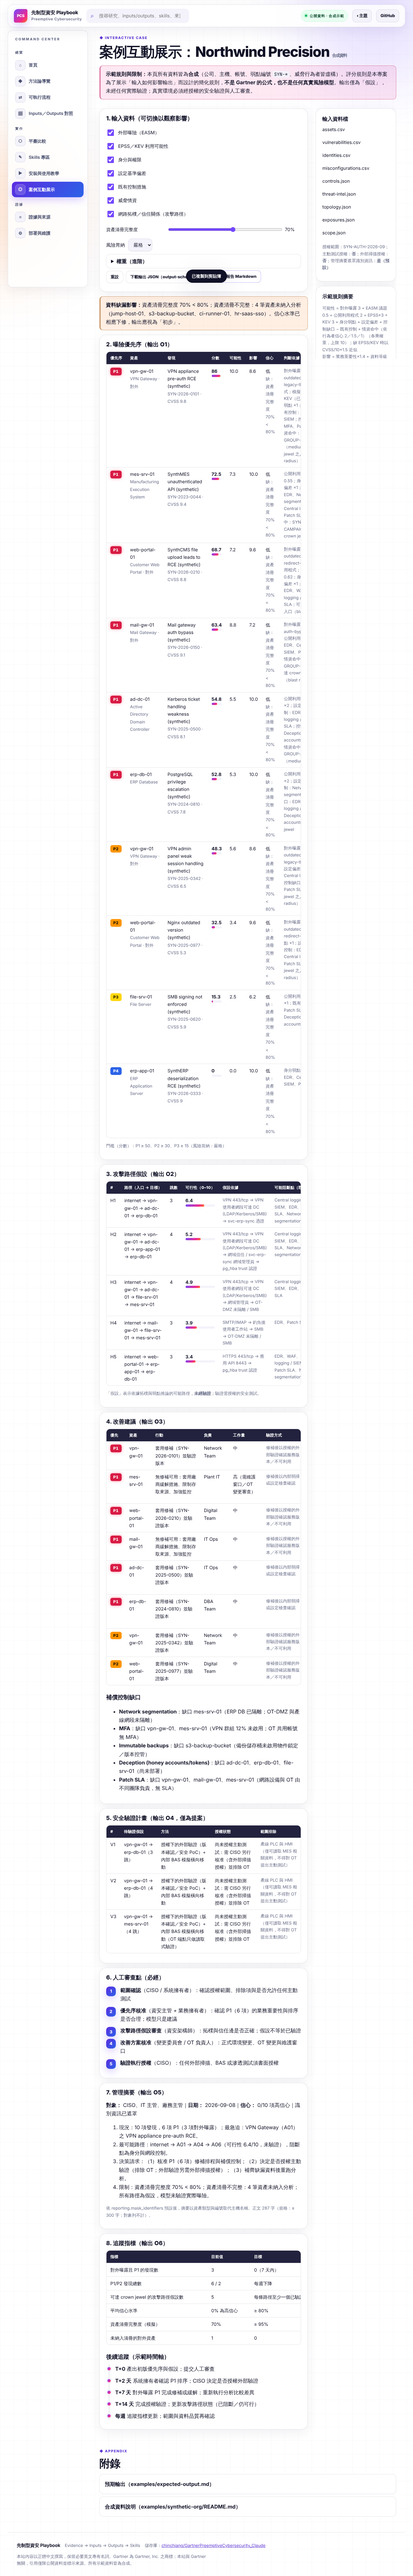
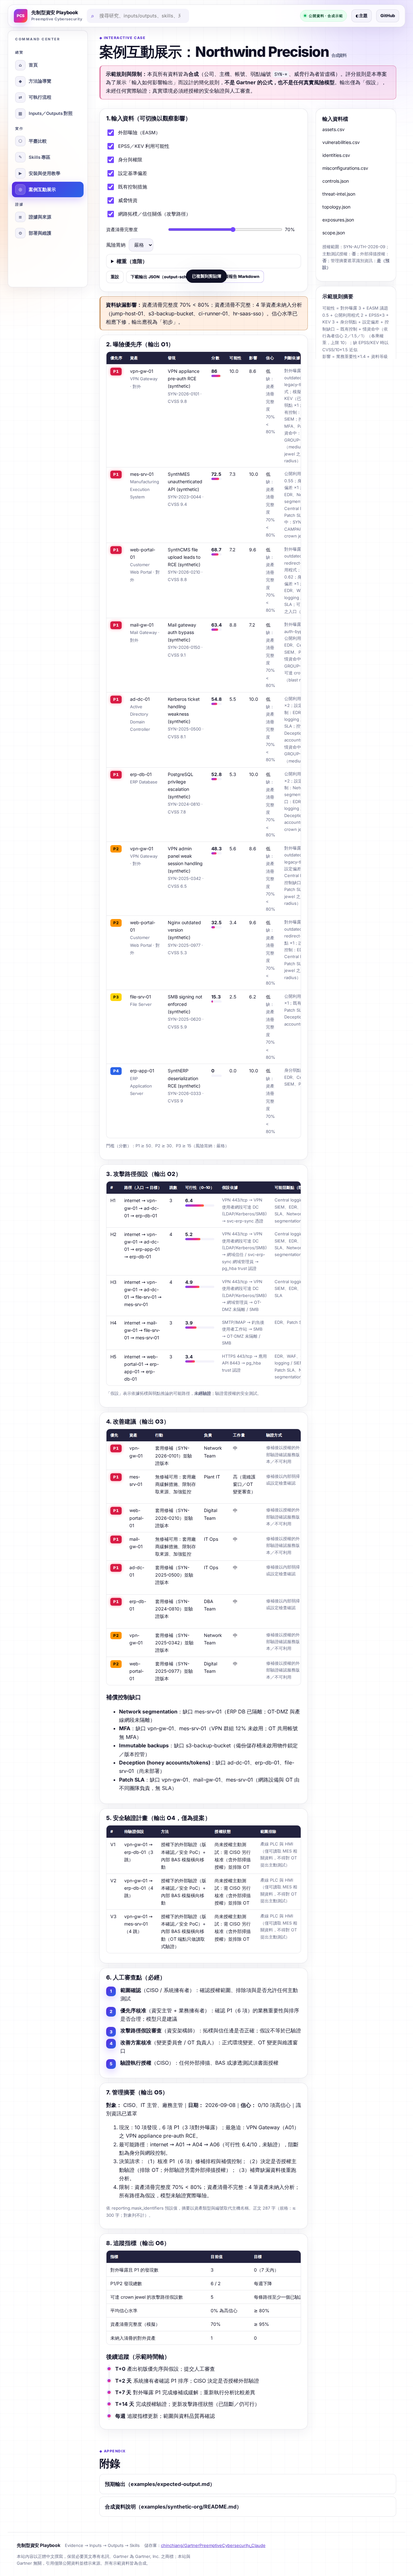
驗證報告與截圖更新為 CI run 39082413984 的產物（100/100）
- verify-report.md：完整模式 100/100（原本是 2026-10-16 的 106/106；#65 把 11 項驗收移到 npm test，這次加了 C 的靜態 1 項與 D 的瀏覽器 4 項）
- verify-screenshots/：12 張重新截圖，新增 home-last-updated.png（以固定時間填好 last-updated 的首頁，1280px）
- data/extra.js：重建（驗證報告嵌入網站）

diff --git a/data/extra.js b/data/extra.js
@@ -23,6 +23,6 @@ window.EXTRA_DOCS = {
  "readme": "# Gartner「Preemptive Cybersecurity（先制型資安）」研究與五平臺 Skills Playbook\n\n研究 Gartner 的 Preemptive Cybersecurity 方法論，拆解其必要輸入、處理流程與可能輸出；據此建立可在 **ChatGPT、Claude、Grok、GLM、DeepSeek** 上使用的 skills 或等效工作流程；並以合成資料示範。全部內容以正體中文撰寫，保留必要英文專有名詞，並以互動網站呈現。\n\n> **誠實聲明**：本專案明確區分「Gartner 明確陳述」「其他來源」「本專案推論」「待驗證」。凡標示為本專案推論的流程、分類、評分規則，**不是 Gartner 官方方法論**。研究環境無法直接開啟 gartner.com 與多數廠商網站，Gartner 網頁引文取自搜尋索引摘錄並交叉比對；唯一讀過全文的 Gartner 文件是使用者提供的《Emerging Tech Impact Radar: Preemptive Cybersecurity》授權轉載版。詳見網站「研究方法」章與「證據與來源」頁。\n\n## 網站\n\n- 網站網址（已由 GitHub Actions 部署，2026-09-13 確認可用）：`https://chinchiang.github.io/GartnerPreemptiveCybersecurity_Claude/`\n- 本機預覽：`npm run build && npx http-server -p 8080 .`，或直接開啟 `index.html`。建置與靜態驗證只用 Node 內建模組，不需要 `npm install`。\n\n網站包含：方法論導覽（8 章研究文件全文）、可執行流程（8 步驟互動）、Inputs／Outputs 對照（可篩選，含合成範例）、平臺比較、Skills 專區（一鍵複製／下載／ZIP）、安裝與使用教學（切換平臺）、案例互動展示（合成資料，可切換輸入與權重；輸出 JSON 符合 output-schema）、證據與來源（查證等級可篩選、原始證據檔、待驗證清單、連結檢查表）、部署與維護（附驗證報告與後端說明）。支援桌面與行動裝置、淺／深色主題、全站搜尋、基本無障礙。\n\n## 儲存庫結構\n\n```\nindex.html, assets/, data/        靜態網站（無框架、無外部相依；assets/fonts/ 自載 Inter／JetBrains Mono，OFL）\ndocs/research/                    研究文件 00–07（方法、定義、關聯、流程、輸入、輸出、案例、平臺）\ndocs/guides/                      五平臺安裝與使用教學 + 部署與維護\ndocs/evidence/                    英文證據檔（Gartner 與平臺查證原始紀錄）\nskills/shared/                    共用任務規格、核心提示詞、輸入／輸出 JSON Schema\nskills/{chatgpt,claude,grok,glm,deepseek}/   各平臺 skill 或等效檔案（SKILL.md、提示詞、API 腳本）\nexamples/synthetic-org/           合成資料（9 檔）；expected-output.md 預期輸出；demo-snapshot.txt 示範引擎黃金快照\nscripts/                          build-data.mjs（產生 data/ 與 downloads/）、verify.mjs（驗證）、run-demo.mjs（示範引擎；--json 輸出 output-schema 格式、--no-scope 模擬缺授權）、check-acceptance.mjs（驗收真實模型輸出）、build-worker.mjs（後端代理嵌入提示詞）\ndownloads/                        建置產生的 ZIP 下載包\nbackend/                          選用的模型 API 代理範例（預設不需要、無金鑰；部署前以 build-worker.mjs 產生 dist/）\n.github/workflows/                pages.yml（部署）、ci.yml（PR 驗證）、link-check.yml（來源連結檢查）、model-acceptance.yml（真實模型驗收，手動）、quarterly-review.yml（季度查證提醒）\n```\n\n## 快速使用 Skills\n\n| 平臺 | 最快路徑 |\n|---|---|\n| Claude | 把 `skills/claude/preemptive-exposure-analysis/` 放進 `.claude/skills/`，在 Claude Code 輸入 `/preemptive-exposure-analysis examples/synthetic-org` |\n| ChatGPT | Custom GPT 貼入 `skills/chatgpt/custom-gpt-instructions.md`；或 Codex 使用 `skills/chatgpt/preemptive-exposure-analysis/` |\n| Grok | `skills/grok/system-prompt.md` 貼入對話，或 `python3 skills/grok/api-workflow.py --dry-run` |\n| GLM | Claude Code + GLM 後端使用 `skills/glm/preemptive-exposure-analysis/`；或 `python3 skills/glm/api-workflow.py --dry-run` |\n| DeepSeek | `python3 skills/deepseek/api-workflow.py --dry-run`（版本無關）；或 `skills/deepseek/preemptive-exposure-analysis/` |\n\n所有 API 腳本都支援 `--dry-run`（不需 API 金鑰）。金鑰一律以環境變數提供，儲存庫不含任何金鑰或真實資料。\n\n## 驗證\n\n```bash\nnpm run build\nnpm run verify:static   # 資料、來源 ID、schema、示範引擎的行為檢查與快照、下載檔、機敏字串（驗收在 npm test）\nnpm run verify          # 加上 Playwright 瀏覽器檢查（導覽、搜尋、篩選、複製、下載、案例互動、行動裝置）；需先 npm ci\npython3 skills/claude/preemptive-exposure-analysis/scripts/validate_inputs.py examples/synthetic-org\n```\n\n上面兩個指令驗的是專案本身（免金鑰、可重現）。**真實模型輸出**的驗收另用 `scripts/check-acceptance.mjs` 與 `.github/workflows/model-acceptance.yml`（手動觸發），人工判讀的部分記錄在 `docs/evidence/model-acceptance-template.md`；細節見 `docs/guides/deployment.md` 第 4.3 節。\n\n實際檢查結果記錄於 `verify-report.md`。`data/` 與 `downloads/` 為建置產物但有進版控，CI 會檢查它們與來源一致；修改 `docs/` 或 `skills/` 後請務必重新 `npm run build` 再提交。\n\n## 安全邊界\n\n本專案的工作流程以**授權範圍內的防禦分析**為目的。語言模型只做資料整合、規則化推理、假設生成與文件撰寫；不執行掃描或測試、不驗證實際曝險、不保證防止攻擊。對外掃描、主動安全驗證與正式環境變更在流程中設有明確的授權旗標與人工審查步驟。\n\n## 授權與商標\n\n- 本專案內容（文件、程式碼、合成資料）採 MIT License（見 `LICENSE`）。\n- Gartner 為 Gartner, Inc. 之商標。本專案與 Gartner 無關；引用僅限公開資料與短句，並標示來源。依 Gartner 使用政策，不在儲存庫內收錄任何 Gartner 文件全文。\n",
  "syntheticReadme": "# 合成資料：Northwind Precision（虛構製造業公司）\n\n> **所有資料皆為合成（synthetic）**。公司、主機名稱、IP、帳號、弱點編號（`SYN-` 開頭）與威脅情資皆為示範用途而虛構，與任何真實組織、產品或 CVE 無關。請勿以本資料推論任何真實環境的安全狀態。\n\n本目錄提供一份完整、可直接餵給五個平臺 skill 的輸入資料集，同時也是網站「案例互動展示」使用的資料。\n\n| 檔案 | 對應輸入類別 | 必要性 | 說明 |\n|---|---|---|---|\n| `assets.csv` | 資產清冊 + 業務重要性 | 必要 | 12 筆資產，含類型、擁有者、業務重要性（1–5）、資料等級、是否對外曝露 |\n| `exposures.json` | 外部曝險（EASM 輸出） | 必要（可由資產清冊推估） | 對外服務、port、憑證與到期、指紋 |\n| `vulnerabilities.csv` | 弱點掃描結果 | 必要 | 合成弱點（`SYN-2026-xxxx`），含 CVSS、是否有公開利用程式、模擬 EPSS、模擬 KEV 旗標 |\n| `misconfigurations.csv` | 設定基準偏差 | 選用 | CIS/雲端設定檢查結果 |\n| `identities.csv` | 身分與權限 | 選用（建議） | 特權帳號、MFA 狀態、閒置狀態、服務帳號 |\n| `controls.json` | 既有控制措施 | 選用（建議） | EDR、WAF、網段隔離、備份、日誌覆蓋 |\n| `threat-intel.json` | 威脅情資 | 選用（建議） | 產業相關威脅行為者 TTP、近期活躍利用之弱點類別 |\n| `topology.json` | 網路／信任關係 | 選用 | 資產間可達性與信任邊，供攻擊路徑假設使用 |\n| `scope.json` | 授權範圍與分析參數 | 必要 | 授權範圍、排除項、分析日期、風險胃納 |\n\n執行方式請見各平臺 skill 的「使用範例」，以及 `examples/expected-output.md` 內的預期輸出。\n",
  "backendReadme": "# 選用後端：安全的模型 API 代理（Cloudflare Worker 範例）\n\n網站預設**不需要任何 API 金鑰**：案例互動展示使用確定性的示範規則在瀏覽器內執行。若你想在網站上加一個「用真實語言模型跑 skill」的按鈕，**不要**把金鑰放進前端。本目錄提供一個最小的代理範例，金鑰只存在伺服器端環境變數。\n\n## 設計原則\n\n1. 金鑰只在伺服器（Worker 的 secret）；前端只呼叫 `/api/analyze`。\n2. 代理只允許固定的 system prompt（讀自 `skills/shared/core-prompt.md`），不讓前端覆蓋第 0 節。\n3. 速率限制與來源限制（`ALLOWED_ORIGIN`）；請求體大小上限。\n4. 授權範圍守門：`bundle.scope` 缺少或必填欄位不合格就回 400 並列出缺少的欄位，不送往模型供應商；規則只來自 `skills/shared/input-schema.json` 的 scope 定義，由與網站示範引擎共用的 `assets/scope-gate.js` 判定（見 `docs/adr/0004-scope-gate-reads-the-schema-in-two-interpreters.md`）。\n5. 不記錄請求內容；回應直接轉發。\n6. 使用者上傳的資料會送往模型供應商：部署前確認資料處理協議，示範只用合成資料。\n\n## 檔案\n\n- `worker.js`：Cloudflare Worker **模板**，支援 `PROVIDER=openai|anthropic|xai|glm|deepseek`（皆為 OpenAI 相容或 Anthropic 相容端點）。其中 `CORE_PROMPT` 是佔位字串、授權範圍守門以相對路徑 import `../assets/scope-gate.js`，部署前必須先建置。\n- `package.json`：只宣告 `\"type\": \"module\"`，讓 Node 以 ES module 載入 `worker.js`（`scripts/scope-cases.test.mjs` 的守門測試）；根目錄的 `package.json` 不能這樣宣告，因為測試以 `require` 載入 `assets/demo.js`。\n- `../scripts/build-worker.mjs`：把 `skills/shared/core-prompt.md` 的提示詞區塊嵌入模板，並內嵌模板 import 的 `assets/scope-gate.js`，輸出單一檔案 `backend/dist/worker.js`（已列入 `.gitignore`）。\n- `.env.example`：需要設定的變數清單（**不要**建立含真實值的 `.env` 並提交）。\n\n## 部署（Cloudflare Workers）\n\n```bash\nnode scripts/build-worker.mjs               # 在儲存庫根目錄執行，產生 backend/dist/worker.js\nnpm i -g wrangler\ncd backend\nwrangler secret put PROVIDER_API_KEY        # 互動輸入，不會寫入檔案\nwrangler deploy dist/worker.js --name pea-proxy --compatibility-date 2026-01-01 \\\n  --var PROVIDER:openai --var MODEL:<供應商官方模型 ID> --var ALLOWED_ORIGIN:https://<你的 GitHub Pages 網域>\n```\n\n`MODEL` 請以各供應商官方模型列表為準；本專案未在真實模型上驗證代理（列為待驗證）。速率限制使用 Worker 記憶體，僅為示範；正式使用請改用 Cloudflare Rate Limiting 或 KV／Durable Objects。\n\n前端接法（示意，未內建於本站）：\n\n```js\nconst r = await fetch('https://<worker>/api/analyze', { method: 'POST', headers: { 'content-type': 'application/json' }, body: JSON.stringify({ bundle }) });\n```\n\n## 其他選項\n\n- Vercel／Netlify Functions：同樣邏輯，金鑰放環境變數。\n- 企業內部：以既有 API gateway 承載，並加上 SSO。\n",
- "verifyReport": "# 驗證報告\n\n執行時間：2026-10-16T23:35:57.449Z\n模式：full\n結果：106/106 通過\n\n| 檢查 | 結果 | 說明 |\n|---|---|---|\n| 載入 data/manifest.js | ✅ |  |\n| 載入 data/research.js | ✅ |  |\n| 載入 data/guides.js | ✅ |  |\n| 載入 data/skills.js | ✅ |  |\n| 載入 data/case.js | ✅ |  |\n| 載入 data/process.js | ✅ |  |\n| 載入 data/io.js | ✅ |  |\n| 載入 data/platforms.js | ✅ |  |\n| 載入 data/sources.js | ✅ |  |\n| 載入 data/extra.js | ✅ |  |\n| 研究文件 ≥ 7 章 | ✅ | 8 章 |\n| 五個平臺教學 + 部署文件 | ✅ | chatgpt,claude,grok,glm,deepseek,deployment |\n| Skills 涵蓋五平臺 + shared | ✅ | chatgpt,claude,deepseek,glm,grok,shared |\n| 每個平臺都有 SKILL.md 或 system-prompt.md | ✅ |  |\n| references/ 的 .md 複本標題與母本一致 | ✅ | 11 份 |\n| 所有引用的來源 ID 都存在於來源表 | ✅ | 57 個 ID |\n| 每筆來源都有 verification、url（可為 null）、date、accessed | ✅ |  |\n| 待驗證清單每項都有合法 status | ✅ |  |\n| 待驗證項目都寫出了下一步（how） | ✅ | 15 項待處理 |\n| 已完成項目都有 resolvedAt 日期 | ✅ | 1 項已完成 |\n| 證據檔已嵌入網站 | ✅ | 3 份 |\n| 流程步驟 derivedFrom 指向存在的步驟 | ✅ |  |\n| 流程步驟引用的 I/O 都存在 | ✅ |  |\n| JSON 有效 skills/shared/input-schema.json | ✅ |  |\n| JSON 有效 skills/shared/output-schema.json | ✅ |  |\n| JSON 有效 skills/grok/tool-definitions.json | ✅ |  |\n| JSON 有效 skills/glm/claude-code-settings.example.json | ✅ |  |\n| 驗收 2：vpn-gw-01/SYN-2026-0101 為 P1 且含四項依據 | ✅ | P1 86 |\n| 驗收 3：存在 internet → vpn-gw-01 → ad-dc-01 → erp-db-01 | ✅ |  |\n| 驗收 4：驗證計畫每項標「尚未授權主動測試」 | ✅ |  |\n| 驗收 5：管理摘要 ≤ 300 字且含「決策請求」「限制」 | ✅ | 243 字 |\n| 驗收 7：缺 scope 時拒絕分析並列出必要欄位 | ✅ |  |\n| 缺拓樸：信心下修且無路徑假設 | ✅ |  |\n| 清冊 < 80%：信心「低」 | ✅ |  |\n| 驗證計畫：外部驗證需兩個授權旗標 | ✅ |  |\n| 引擎 JSON 符合 output-schema 結構 | ✅ | required、block 欄位、items 必填鍵、摘要長度 |\n| 驗收 6：移除情資後信心下修並標示 | ✅ |  |\n| 示範引擎輸出與 examples/demo-snapshot.txt 一致 | ✅ | 50 行 |\n| 驗收腳本接受符合 schema 的 baseline array／A01 fixture | ✅ |  |\n| 驗收腳本接受誠實的 no-intel 8-file fixture | ✅ |  |\n| 驗收腳本拒絕未宣告缺漏的假 no-intel 輸出 | ✅ |  |\n| 引擎 JSON 通過驗收腳本（baseline） | ✅ |  |\n| 引擎 JSON 通過驗收腳本（no-intel） | ✅ |  |\n| index.html 有 CSP meta 且允許 inline style（app.js 用 style 屬性） | ✅ |  |\n| index.html 有 OG／Twitter 卡片與 canonical | ✅ |  |\n| 站點檔案存在 robots.txt | ✅ |  |\n| 站點檔案存在 sitemap.xml | ✅ |  |\n| 站點檔案存在 .nojekyll | ✅ |  |\n| 站點檔案存在 404.html | ✅ |  |\n| canonical、og:url、sitemap.xml、robots.txt 的網址一致 | ✅ |  |\n| 下載檔存在 downloads/skills-chatgpt.zip | ✅ |  |\n| 下載檔存在 downloads/skills-claude.zip | ✅ |  |\n| 下載檔存在 downloads/skills-deepseek.zip | ✅ |  |\n| 下載檔存在 downloads/skills-glm.zip | ✅ |  |\n| 下載檔存在 downloads/skills-grok.zip | ✅ |  |\n| 下載檔存在 downloads/skills-shared.zip | ✅ |  |\n| 下載檔存在 downloads/skills-all-platforms.zip | ✅ |  |\n| 下載檔存在 downloads/synthetic-example-data.zip | ✅ |  |\n| 無 API 金鑰樣式字串 | ✅ |  |\n| 首頁渲染 | ✅ |  |\n| 導覽 #/methodology | ✅ | 方法論導覽 |\n| 導覽 #/process | ✅ | 可執行流程 本專案推論框架 |\n| 導覽 #/io | ✅ | Inputs／Outputs 對照 |\n| 導覽 #/platforms | ✅ | 平臺比較 |\n| 導覽 #/skills | ✅ | Skills 專區 |\n| 導覽 #/guides | ✅ | 安裝與使用教學 |\n| 導覽 #/case | ✅ | 案例互動展示：Northwind Precision 合成資 |\n| 導覽 #/sources | ✅ | 證據與來源 |\n| 導覽 #/deploy | ✅ | 部署與維護 |\n| 方法論章節切換 | ✅ | /methodology?doc=01-definition |\n| 目錄錨點：同章且元素存在 | ✅ | 1-2-gartner-的目標與主張-gartner-明確陳述 scrollY=8 |\n| Tabs 方向鍵切換 | ✅ | /methodology?doc=02-relations |\n| Skip link 不改變頁面 | ✅ |  |\n| 全站搜尋回傳結果 | ✅ | 12 筆 |\n| 搜尋 ARIA：aria-expanded 更新且結果為 option | ✅ |  |\n| 搜尋鍵盤導覽：aria-activedescendant | ✅ |  |\n| 搜尋片段含 mark | ✅ |  |\n| I/O 必要性篩選 | ✅ | 16 → 7 |\n| I/O 階段篩選 | ✅ |  |\n| Skills 一鍵複製（剪貼簿） | ✅ | 3768 字元 |\n| Skills 檔案下載 | ✅ | SKILL.md |\n| Skills 原始碼檢視、複製、下載保留 frontmatter | ✅ | 三者皆與原文（含 frontmatter）相同 |\n| Skills ZIP 下載 | ✅ |  |\n| Skills 原始／渲染切換 | ✅ |  |\n| Skills 渲染檢視略過 frontmatter | ✅ | 第一個元素：H2 |\n| 教學平臺切換 Grok | ✅ |  |\n| 案例：規則卡由示範引擎的規則資料渲染 | ✅ | 與 DEMO.rulesSummary() 相同，且含預設門檻與無發現節點取值 |\n| 案例：移除情資後顯示缺漏警示 | ✅ |  |\n| 案例：移除拓樸後無路徑假設 | ✅ |  |\n| 案例：清冊完整度調整 | ✅ |  |\n| 案例：風險胃納切換改變 P1 數 | ✅ | 10 → 12 |\n| 案例：輸出 JSON 下載 | ✅ |  |\n| 案例：複製報告 Markdown | ✅ |  |\n| 來源頁所有連結為 http(s) | ✅ | 55 個連結 |\n| 來源頁類型篩選 | ✅ |  |\n| 來源頁查證等級篩選 | ✅ |  |\n| 來源頁：證據檔附錄可展開 | ✅ |  |\n| 部署頁：標題層級無跳級 | ✅ |  |\n| 行動裝置 390px：所有路由無水平捲動 | ✅ |  |\n| 行動裝置 320px：無水平捲動 | ✅ |  |\n| 行動裝置：漢堡選單開啟 | ✅ |  |\n| 無障礙：skip link、lang、aria-current | ✅ |  |\n| 對比：主要按鈕 ≥ 4.5 | ✅ | 18.58 |\n| 對比：深色主題強調色元素 ≥ 4.5 | ✅ | 5.14 |\n| 儲存庫連結顯示狀態符合 REPO_PUBLIC=true | ✅ | 實際 顯示 |\n| 無 JS 執行錯誤 | ✅ |  |\n",
+ "verifyReport": "# 驗證報告\n\n執行時間：2026-10-18T00:21:55.764Z\n模式：full\n結果：100/100 通過\n\n| 檢查 | 結果 | 說明 |\n|---|---|---|\n| 載入 data/manifest.js | ✅ |  |\n| 載入 data/research.js | ✅ |  |\n| 載入 data/guides.js | ✅ |  |\n| 載入 data/skills.js | ✅ |  |\n| 載入 data/case.js | ✅ |  |\n| 載入 data/process.js | ✅ |  |\n| 載入 data/io.js | ✅ |  |\n| 載入 data/platforms.js | ✅ |  |\n| 載入 data/sources.js | ✅ |  |\n| 載入 data/extra.js | ✅ |  |\n| 研究文件 ≥ 7 章 | ✅ | 8 章 |\n| 五個平臺教學 + 部署文件 | ✅ | chatgpt,claude,grok,glm,deepseek,deployment |\n| Skills 涵蓋五平臺 + shared | ✅ | chatgpt,claude,deepseek,glm,grok,shared |\n| 每個平臺都有 SKILL.md 或 system-prompt.md | ✅ |  |\n| references/ 的 .md 複本標題與母本一致 | ✅ | 11 份 |\n| 所有引用的來源 ID 都存在於來源表 | ✅ | 57 個 ID |\n| 每筆來源都有 verification、url（可為 null）、date、accessed | ✅ |  |\n| 待驗證清單每項都有合法 status | ✅ |  |\n| 待驗證項目都寫出了下一步（how） | ✅ | 15 項待處理 |\n| 已完成項目都有 resolvedAt 日期 | ✅ | 1 項已完成 |\n| 證據檔已嵌入網站 | ✅ | 3 份 |\n| 流程步驟 derivedFrom 指向存在的步驟 | ✅ |  |\n| 流程步驟引用的 I/O 都存在 | ✅ |  |\n| JSON 有效 skills/shared/input-schema.json | ✅ |  |\n| JSON 有效 skills/shared/output-schema.json | ✅ |  |\n| JSON 有效 skills/grok/tool-definitions.json | ✅ |  |\n| JSON 有效 skills/glm/claude-code-settings.example.json | ✅ |  |\n| 缺拓樸：信心下修且無路徑假設 | ✅ |  |\n| 清冊 < 80%：信心「低」 | ✅ |  |\n| 驗證計畫：外部驗證需兩個授權旗標 | ✅ |  |\n| 引擎 JSON 符合 output-schema 結構 | ✅ | required、block 欄位、items 必填鍵、摘要長度 |\n| 示範引擎輸出與 examples/demo-snapshot.txt 一致 | ✅ | 50 行 |\n| index.html 有 CSP meta 且允許 inline style（app.js 用 style 屬性） | ✅ |  |\n| index.html 有 OG／Twitter 卡片與 canonical | ✅ |  |\n| index.html 恰好一個空的 last-updated <meta>（部署時才填得進最後更新時間） | ✅ |  |\n| 站點檔案存在 robots.txt | ✅ |  |\n| 站點檔案存在 sitemap.xml | ✅ |  |\n| 站點檔案存在 .nojekyll | ✅ |  |\n| 站點檔案存在 404.html | ✅ |  |\n| canonical、og:url、sitemap.xml、robots.txt 的網址一致 | ✅ |  |\n| 下載檔存在 downloads/skills-chatgpt.zip | ✅ |  |\n| 下載檔存在 downloads/skills-claude.zip | ✅ |  |\n| 下載檔存在 downloads/skills-deepseek.zip | ✅ |  |\n| 下載檔存在 downloads/skills-glm.zip | ✅ |  |\n| 下載檔存在 downloads/skills-grok.zip | ✅ |  |\n| 下載檔存在 downloads/skills-shared.zip | ✅ |  |\n| 下載檔存在 downloads/skills-all-platforms.zip | ✅ |  |\n| 下載檔存在 downloads/synthetic-example-data.zip | ✅ |  |\n| 無 API 金鑰樣式字串 | ✅ |  |\n| 首頁渲染 | ✅ |  |\n| 導覽 #/methodology | ✅ | 方法論導覽 |\n| 導覽 #/process | ✅ | 可執行流程 本專案推論框架 |\n| 導覽 #/io | ✅ | Inputs／Outputs 對照 |\n| 導覽 #/platforms | ✅ | 平臺比較 |\n| 導覽 #/skills | ✅ | Skills 專區 |\n| 導覽 #/guides | ✅ | 安裝與使用教學 |\n| 導覽 #/case | ✅ | 案例互動展示：Northwind Precision 合成資 |\n| 導覽 #/sources | ✅ | 證據與來源 |\n| 導覽 #/deploy | ✅ | 部署與維護 |\n| 方法論章節切換 | ✅ | /methodology?doc=01-definition |\n| 目錄錨點：同章且元素存在 | ✅ | 1-2-gartner-的目標與主張-gartner-明確陳述 scrollY=100 |\n| Tabs 方向鍵切換 | ✅ | /methodology?doc=02-relations |\n| Skip link 不改變頁面 | ✅ |  |\n| 全站搜尋回傳結果 | ✅ | 12 筆 |\n| 搜尋 ARIA：aria-expanded 更新且結果為 option | ✅ |  |\n| 搜尋鍵盤導覽：aria-activedescendant | ✅ |  |\n| 搜尋片段含 mark | ✅ |  |\n| I/O 必要性篩選 | ✅ | 16 → 7 |\n| I/O 階段篩選 | ✅ |  |\n| Skills 一鍵複製（剪貼簿） | ✅ | 3996 字元 |\n| Skills 檔案下載 | ✅ | SKILL.md |\n| Skills 原始碼檢視、複製、下載保留 frontmatter | ✅ | 三者皆與原文（含 frontmatter）相同 |\n| Skills ZIP 下載 | ✅ |  |\n| Skills 原始／渲染切換 | ✅ |  |\n| Skills 渲染檢視略過 frontmatter | ✅ | 第一個元素：H2 |\n| 教學平臺切換 Grok | ✅ |  |\n| 案例：規則卡由示範引擎的規則資料渲染 | ✅ | 與 DEMO.rulesSummary() 相同，且含預設門檻與無發現節點取值 |\n| 案例：移除情資後顯示缺漏警示 | ✅ |  |\n| 案例：移除拓樸後無路徑假設 | ✅ |  |\n| 案例：清冊完整度調整 | ✅ |  |\n| 案例：風險胃納切換改變 P1 數 | ✅ | 10 → 12 |\n| 案例：輸出 JSON 下載 | ✅ |  |\n| 案例：複製報告 Markdown | ✅ |  |\n| 來源頁所有連結為 http(s) | ✅ | 55 個連結 |\n| 來源頁類型篩選 | ✅ |  |\n| 來源頁查證等級篩選 | ✅ |  |\n| 來源頁：證據檔附錄可展開 | ✅ |  |\n| 部署頁：標題層級無跳級 | ✅ |  |\n| 行動裝置 390px：所有路由無水平捲動 | ✅ |  |\n| 行動裝置 320px：無水平捲動 | ✅ |  |\n| 行動裝置：漢堡選單開啟 | ✅ |  |\n| 無障礙：skip link、lang、aria-current | ✅ |  |\n| 對比：主要按鈕 ≥ 4.5 | ✅ | 18.58 |\n| 對比：深色主題強調色元素 ≥ 4.5 | ✅ | 5.14 |\n| 儲存庫連結顯示狀態符合 REPO_PUBLIC=true | ✅ | 實際 顯示 |\n| 最後更新時間：沒填時 topbar 與頁尾都不顯示（元素存在） | ✅ |  |\n| 最後更新時間：填了時 1280px 的 topbar 顯示臺北時間、頁尾不顯示 | ✅ | 最後更新：2026-10-18 00:30（UTC+8）｜2026-10-17T16:30:00+00:00 |\n| 最後更新時間：填了時 390px 的 topbar 隱藏、頁尾顯示同一段文字 | ✅ | 最後更新：2026-10-18 00:30（UTC+8） |\n| 最後更新時間：填了時 1100px 的 topbar 隱藏、頁尾顯示（topbar 放不下，否則搜尋框會被擠窄） | ✅ | 最後更新：2026-10-18 00:30（UTC+8） |\n| 無 JS 執行錯誤 | ✅ |  |\n",
  "linkCheck": "# 連結檢查 2026-09-21T06:28:44.279Z\n\n| ID | 狀態 | URL |\n|---|---|---|\n| G1 | 403 | https://www.gartner.com/en/newsroom/press-releases/2025-09-18-gartner-says-that-in-the-age-of-genai-preemptive-capabilities-not-detection-and-response-are-the-future-of-cybersecurity |\n| G3 | 403 | https://www.gartner.com/en/articles/preemptive-cybersecurity-solutions |\n| G4 | 403 | https://www.gartner.com/en/newsroom/press-releases/2025-10-20-gartner-identifies-the-top-strategic-technology-trends-for-2026 |\n| G5 | 403 | https://www.gartner.com/en/documents/7048398 |\n| G7 | 403 | https://www.gartner.com/en/newsroom/press-releases/2024-02-22-gartner-identifies-top-cybersecurity-trends-for-2024 |\n| G8 | 403 | https://www.gartner.com/en/articles/how-to-manage-cybersecurity-threats-not-episodes |\n| G11 | 403 | https://www.gartner.com/en/documents/5736483 |\n| G12 | 403 | https://www.gartner.com/en/documents/5818147 |\n| G16 | 403 | https://www.gartner.com/en/documents/5951239 |\n| G18 | 403 | https://www.gartner.com/en/documents/6579502 |\n| G19 | 403 | https://www.gartner.com/en/documents/6605402 |\n| G21 | 403 | https://www.gartner.com/en/documents/6645334 |\n| G22 | 403 | https://www.gartner.com/en/documents/6664234 |\n| G23 | 403 | https://www.gartner.com/en/documents/6679034 |\n| G24 | 403 | https://www.gartner.com/en/documents/7002198 |\n| G25 | 403 | https://www.gartner.com/en/documents/7666961 |\n| G26 | 403 | https://www.gartner.com/en/documents/7962373 |\n| G27 | 403 | https://www.gartner.com/en/documents/7966273 |\n| G28 | 403 | https://www.gartner.com/reviews/market/automated-moving-target-defense |\n| G28b | 403 | https://www.gartner.com/reviews/market/adversarial-exposure-validation |\n| G28c | 403 | https://www.gartner.com/en/documents/6255151 |\n| G29 | 403 | https://www.gartner.com/reviews/market/exposure-assessment-platforms |\n| G30 | 403 | https://www.gartner.com/en/documents/4016760 |\n| G31 | 403 | https://www.gartner.com/en/documents/3286317 |\n| G32 | 403 | https://www.gartner.com/en/documents/ |\n| G33 | 403 | https://www.morphisec.com/blog/how-exposure-management-powers-preemptive-cyber-defense/ |\n| G34 | 403 | https://www.dropzone.ai/blog/gartner-hype-cycle-security-operations-2026 |\n| G-IR | 403 | https://simspace.com/wp-content/uploads/2026/04/Emerging_Tech_Impact_830315_ndx.pdf |\n| G-SRM25 | 403 | https://www.gartner.com/en/newsroom/press-releases/2025-09-22-gartner-security-and-risk-management-summit-emea-2025-day-1-highlights |\n| M1 | 403 | https://www.cybersecuritydive.com/news/preemptive-security-predicted-half-it-security-2030/760642/ |\n| M2 | 403 | https://www.helpnetsecurity.com/2025/09/23/preemptive-cybersecurity-solutions-shift/ |\n| V2 | 403 | https://www.countercraftsec.com/blog/gartner-preemptive-cybersecurity-deception-technology/ |\n| V4 | 403 | https://www.picussecurity.com/resource/blog/what-is-preemptive-security-the-future-of-cyber-defense |\n| V5 | 403 | https://www.splunk.com/en_us/blog/learn/preemptive-cybersecurity.html |\n| V6 | 403 | https://info.xmcyber.com/intelligent-simulation-2025 |\n| V7 | 403 | https://www.vectra.ai/topics/ctem |\n| U1 | 200 | https://github.com/chinchiang/GartnerPreemptiveCybersecurity_Claude |\n| U2 | 200 | https://github.com/chinchiang/GartnerPreemptiveCybersecurity_Claude |\n| P-AS1 | 200 | https://github.com/agentskills/agentskills |\n| P-C1 | 200 | https://platform.claude.com/docs/en/about-claude/models/overview |\n| P-C2 | 200 | https://platform.claude.com/docs/en/agents-and-tools/agent-skills/overview |\n| P-C3 | 200 | https://platform.claude.com/docs/en/build-with-claude/skills-guide |\n| P-C4 | 200 | https://code.claude.com/docs/en/skills |\n| P-C5 | 200 | https://code.claude.com/docs/en/agent-sdk/skills |\n| P-O1 | 200 | https://github.com/openai/skills |\n| P-O2 | 200 | https://github.com/openai/plugins |\n| P-O3 | 200 | https://github.com/openai/openai-python |\n| P-O4 | 403 | https://developers.openai.com/codex/skills |\n| P-O5 | 403 | https://help.openai.com/en/articles/8554397-creating-a-gpt |\n| P-X1 | 200 | https://github.com/xai-org/xai-sdk-python |\n| P-X2 | 403 | https://docs.x.ai/developers/tools/overview |\n| P-Z1 | 200 | https://github.com/zai-org/GLM-5 |\n| P-Z2 | 200 | https://github.com/zai-org/zai-coding-plugins |\n| P-Z3 | 403 | https://docs.z.ai/guides/llm/glm-5 |\n| P-D1 | 200 | https://github.com/deepseek-ai/awesome-deepseek-agent |\n| P-D2 | 403 | https://api-docs.deepseek.com/news/news260813/ |\n| P-D3 | 403 | https://huggingface.co/deepseek-ai/DeepSeek-V4-Pro-0813 |\n"
 };

diff --git a/verify-report.md b/verify-report.md
@@ -1,8 +1,8 @@
 # 驗證報告
 
-執行時間：2026-10-16T23:35:57.449Z
+執行時間：2026-10-18T00:21:55.764Z
 模式：full
-結果：106/106 通過
+結果：100/100 通過
 
 | 檢查 | 結果 | 說明 |
 |---|---|---|
@@ -33,24 +33,14 @@
 | JSON 有效 skills/shared/output-schema.json | ✅ |  |
 | JSON 有效 skills/grok/tool-definitions.json | ✅ |  |
 | JSON 有效 skills/glm/claude-code-settings.example.json | ✅ |  |
-| 驗收 2：vpn-gw-01/SYN-2026-0101 為 P1 且含四項依據 | ✅ | P1 86 |
-| 驗收 3：存在 internet → vpn-gw-01 → ad-dc-01 → erp-db-01 | ✅ |  |
-| 驗收 4：驗證計畫每項標「尚未授權主動測試」 | ✅ |  |
-| 驗收 5：管理摘要 ≤ 300 字且含「決策請求」「限制」 | ✅ | 243 字 |
-| 驗收 7：缺 scope 時拒絕分析並列出必要欄位 | ✅ |  |
 | 缺拓樸：信心下修且無路徑假設 | ✅ |  |
 | 清冊 < 80%：信心「低」 | ✅ |  |
 | 驗證計畫：外部驗證需兩個授權旗標 | ✅ |  |
 | 引擎 JSON 符合 output-schema 結構 | ✅ | required、block 欄位、items 必填鍵、摘要長度 |
-| 驗收 6：移除情資後信心下修並標示 | ✅ |  |
 | 示範引擎輸出與 examples/demo-snapshot.txt 一致 | ✅ | 50 行 |
-| 驗收腳本接受符合 schema 的 baseline array／A01 fixture | ✅ |  |
-| 驗收腳本接受誠實的 no-intel 8-file fixture | ✅ |  |
-| 驗收腳本拒絕未宣告缺漏的假 no-intel 輸出 | ✅ |  |
-| 引擎 JSON 通過驗收腳本（baseline） | ✅ |  |
-| 引擎 JSON 通過驗收腳本（no-intel） | ✅ |  |
 | index.html 有 CSP meta 且允許 inline style（app.js 用 style 屬性） | ✅ |  |
 | index.html 有 OG／Twitter 卡片與 canonical | ✅ |  |
+| index.html 恰好一個空的 last-updated <meta>（部署時才填得進最後更新時間） | ✅ |  |
 | 站點檔案存在 robots.txt | ✅ |  |
 | 站點檔案存在 sitemap.xml | ✅ |  |
 | 站點檔案存在 .nojekyll | ✅ |  |
@@ -76,7 +66,7 @@
 | 導覽 #/sources | ✅ | 證據與來源 |
 | 導覽 #/deploy | ✅ | 部署與維護 |
 | 方法論章節切換 | ✅ | /methodology?doc=01-definition |
-| 目錄錨點：同章且元素存在 | ✅ | 1-2-gartner-的目標與主張-gartner-明確陳述 scrollY=8 |
+| 目錄錨點：同章且元素存在 | ✅ | 1-2-gartner-的目標與主張-gartner-明確陳述 scrollY=100 |
 | Tabs 方向鍵切換 | ✅ | /methodology?doc=02-relations |
 | Skip link 不改變頁面 | ✅ |  |
 | 全站搜尋回傳結果 | ✅ | 12 筆 |
@@ -85,7 +75,7 @@
 | 搜尋片段含 mark | ✅ |  |
 | I/O 必要性篩選 | ✅ | 16 → 7 |
 | I/O 階段篩選 | ✅ |  |
-| Skills 一鍵複製（剪貼簿） | ✅ | 3768 字元 |
+| Skills 一鍵複製（剪貼簿） | ✅ | 3996 字元 |
 | Skills 檔案下載 | ✅ | SKILL.md |
 | Skills 原始碼檢視、複製、下載保留 frontmatter | ✅ | 三者皆與原文（含 frontmatter）相同 |
 | Skills ZIP 下載 | ✅ |  |
@@ -111,4 +101,8 @@
 | 對比：主要按鈕 ≥ 4.5 | ✅ | 18.58 |
 | 對比：深色主題強調色元素 ≥ 4.5 | ✅ | 5.14 |
 | 儲存庫連結顯示狀態符合 REPO_PUBLIC=true | ✅ | 實際 顯示 |
+| 最後更新時間：沒填時 topbar 與頁尾都不顯示（元素存在） | ✅ |  |
+| 最後更新時間：填了時 1280px 的 topbar 顯示臺北時間、頁尾不顯示 | ✅ | 最後更新：2026-10-18 00:30（UTC+8）｜2026-10-17T16:30:00+00:00 |
+| 最後更新時間：填了時 390px 的 topbar 隱藏、頁尾顯示同一段文字 | ✅ | 最後更新：2026-10-18 00:30（UTC+8） |
+| 最後更新時間：填了時 1100px 的 topbar 隱藏、頁尾顯示（topbar 放不下，否則搜尋框會被擠窄） | ✅ | 最後更新：2026-10-18 00:30（UTC+8） |
 | 無 JS 執行錯誤 | ✅ |  |
